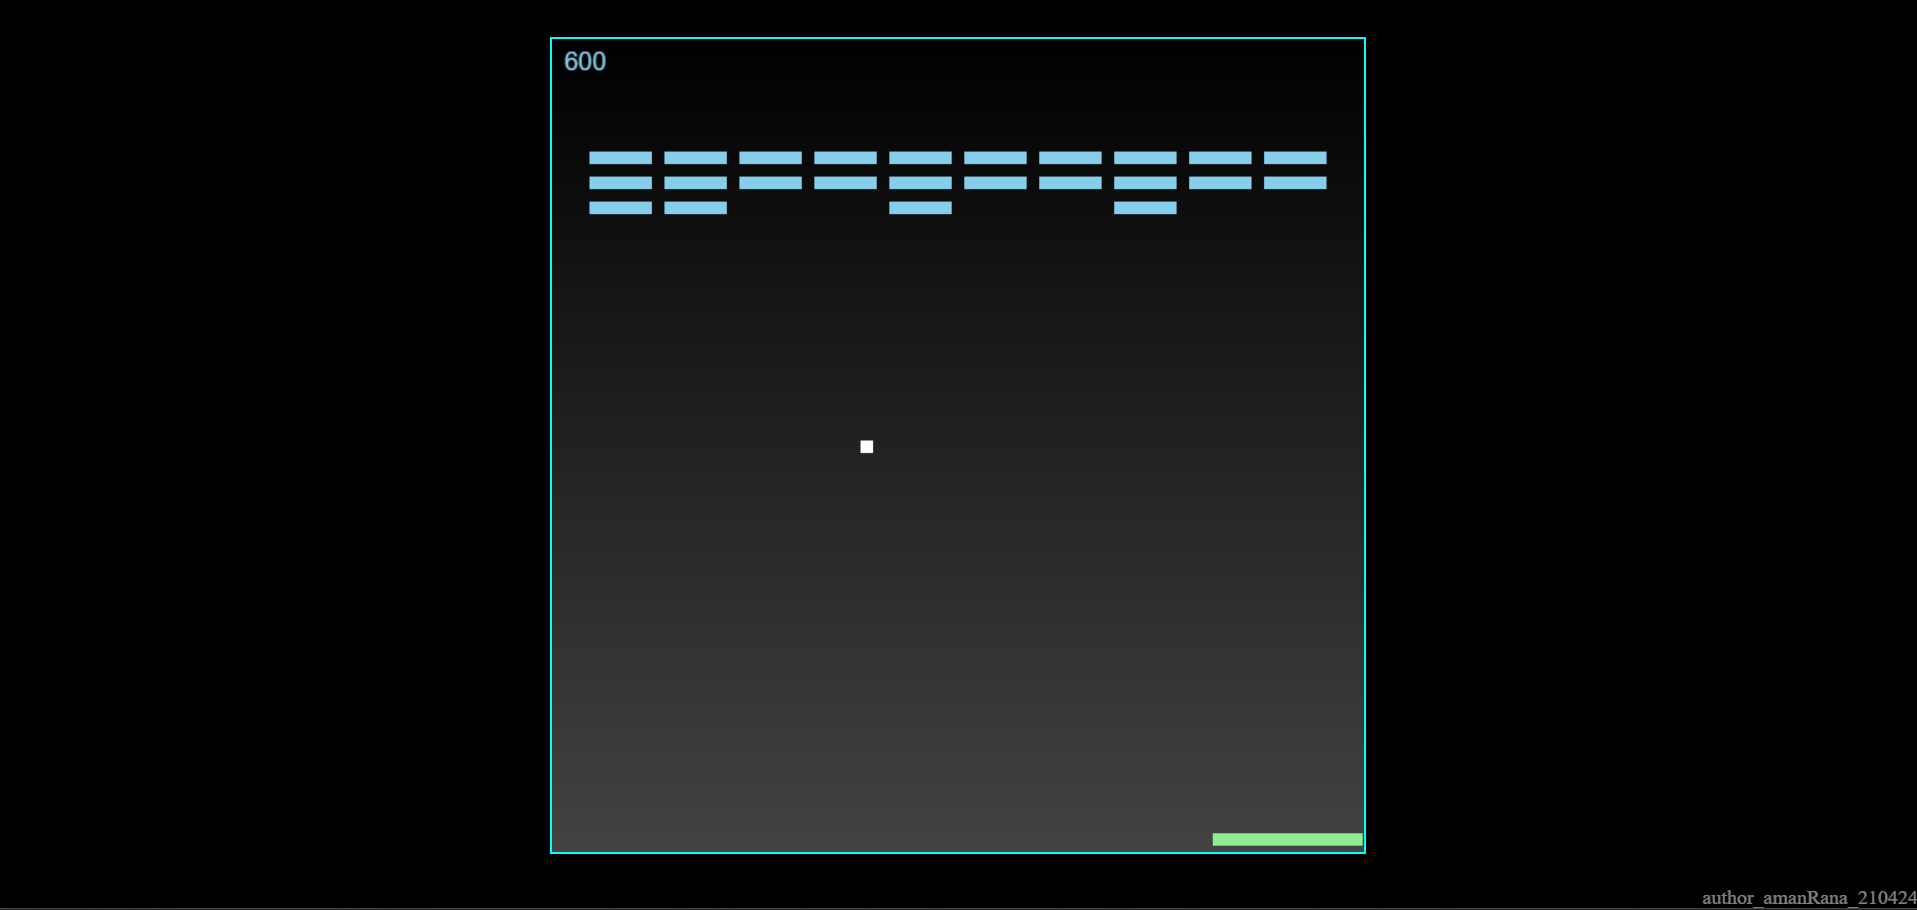
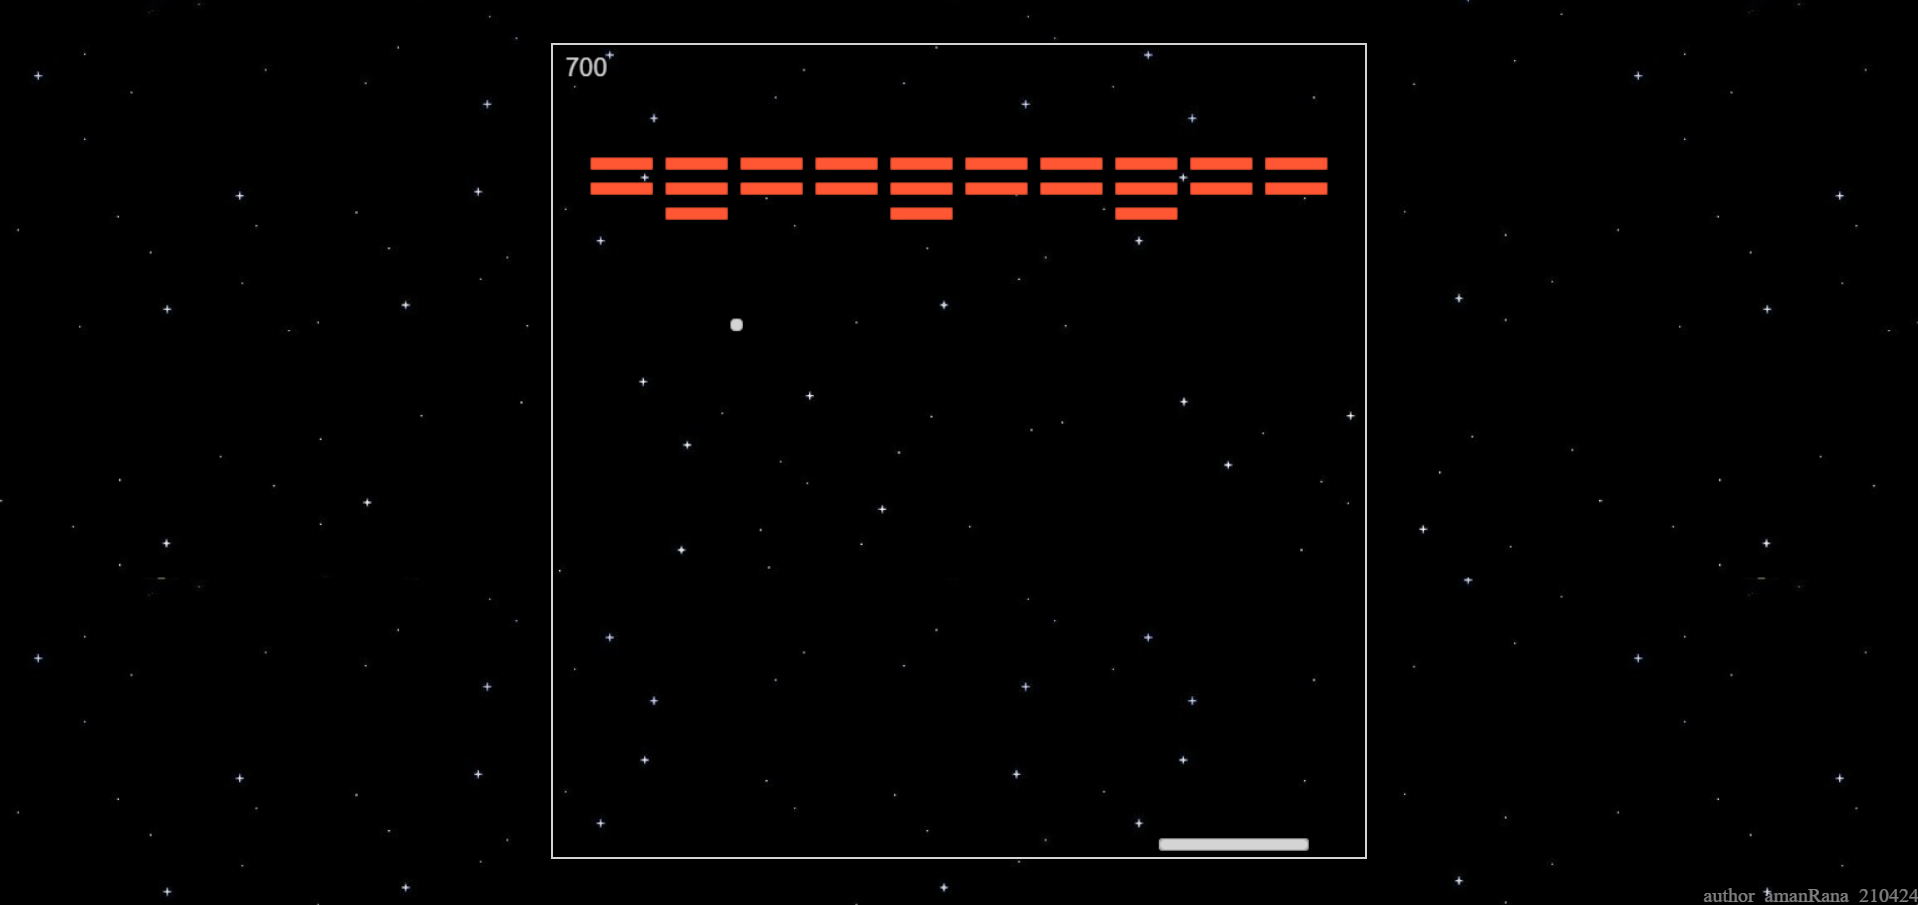
add brick, ball and paddle svg

diff --git a/app.js b/app.js
@@ -10,6 +10,9 @@ let boardWidth = 650;
 let boardHeight = 650;
 
 // paddle
+let paddleImg = new Image();
+paddleImg.src = "assets/paddle.svg";
+
 let paddleWidth = 120;
 let paddleHeight = 10;
 let paddleVelocityX = 44;
@@ -22,6 +25,9 @@ let paddle = {
 };
 
 // ball
+let ballImg = new Image();
+ballImg.src = "assets/ball.svg";
+
 let ballWidth = 10;
 let ballHeight = 10;
 let ballVelocityX = 3;
@@ -36,6 +42,9 @@ let ball = {
 };
 
 // bricks
+let brickImg = new Image();
+brickImg.src = "assets/bricks.svg";
+
 let brickArray = [];
 let brickWidth = 50;
 let brickHeight = 10;
@@ -57,7 +66,7 @@ window.onload = function () {
   context = board.getContext("2d");
 
   //   paddle drawing
-  context.fillStyle = "lightgreen";
+  context.fillStyle = "#d4d4d4";
   context.fillRect(paddle.x, paddle.y, paddleWidth, paddleHeight);
 
   requestAnimationFrame(update);
@@ -80,14 +89,12 @@ function update() {
   context.clearRect(0, 0, board.width, board.height);
 
   //  paddle drawing
-  context.fillStyle = "lightgreen";
-  context.fillRect(paddle.x, paddle.y, paddleWidth, paddleHeight);
+  context.drawImage(paddleImg, paddle.x, paddle.y, paddleWidth, paddleHeight);
 
   //  ball
-  context.fillStyle = "white";
   ball.x += ball.velocityX;
   ball.y += ball.velocityY;
-  context.fillRect(ball.x, ball.y, ball.width, ball.height);
+  context.drawImage(ballImg, ball.x, ball.y, ball.width, ball.height);
 
   //  bounce of the walls
   if (ball.y <= 0) {
@@ -112,7 +119,6 @@ function update() {
   }
 
   // brick drawing
-  context.fillStyle = "skyblue";
   for (let i = 0; i < brickArray.length; i++) {
     let brick = brickArray[i];
     if (!brick.break) {
@@ -127,7 +133,7 @@ function update() {
         brickCount -= 1;
         score += 100;
       }
-      context.fillRect(brick.x, brick.y, brick.width, brick.height);
+      context.drawImage(brickImg, brick.x, brick.y, brick.width, brick.height);
     }
   }
 

diff --git a/style.css b/style.css
@@ -10,15 +10,17 @@
 
 body {
   background-color: black;
+  background-image: url(assets/stars_bg_img.jpg);
   color: white;
   text-align: center;
+  display: flex;
+  justify-content: center;
+  align-items: center;
+  height: 100vh;
 }
 
 #board {
-  margin-top: 2rem;
-  background: #161616;
-  background: linear-gradient(to bottom, #000000, #434343);
-  border: 2px solid cyan;
+  border: 2px solid #d4d4d4;
 }
 
 footer {
